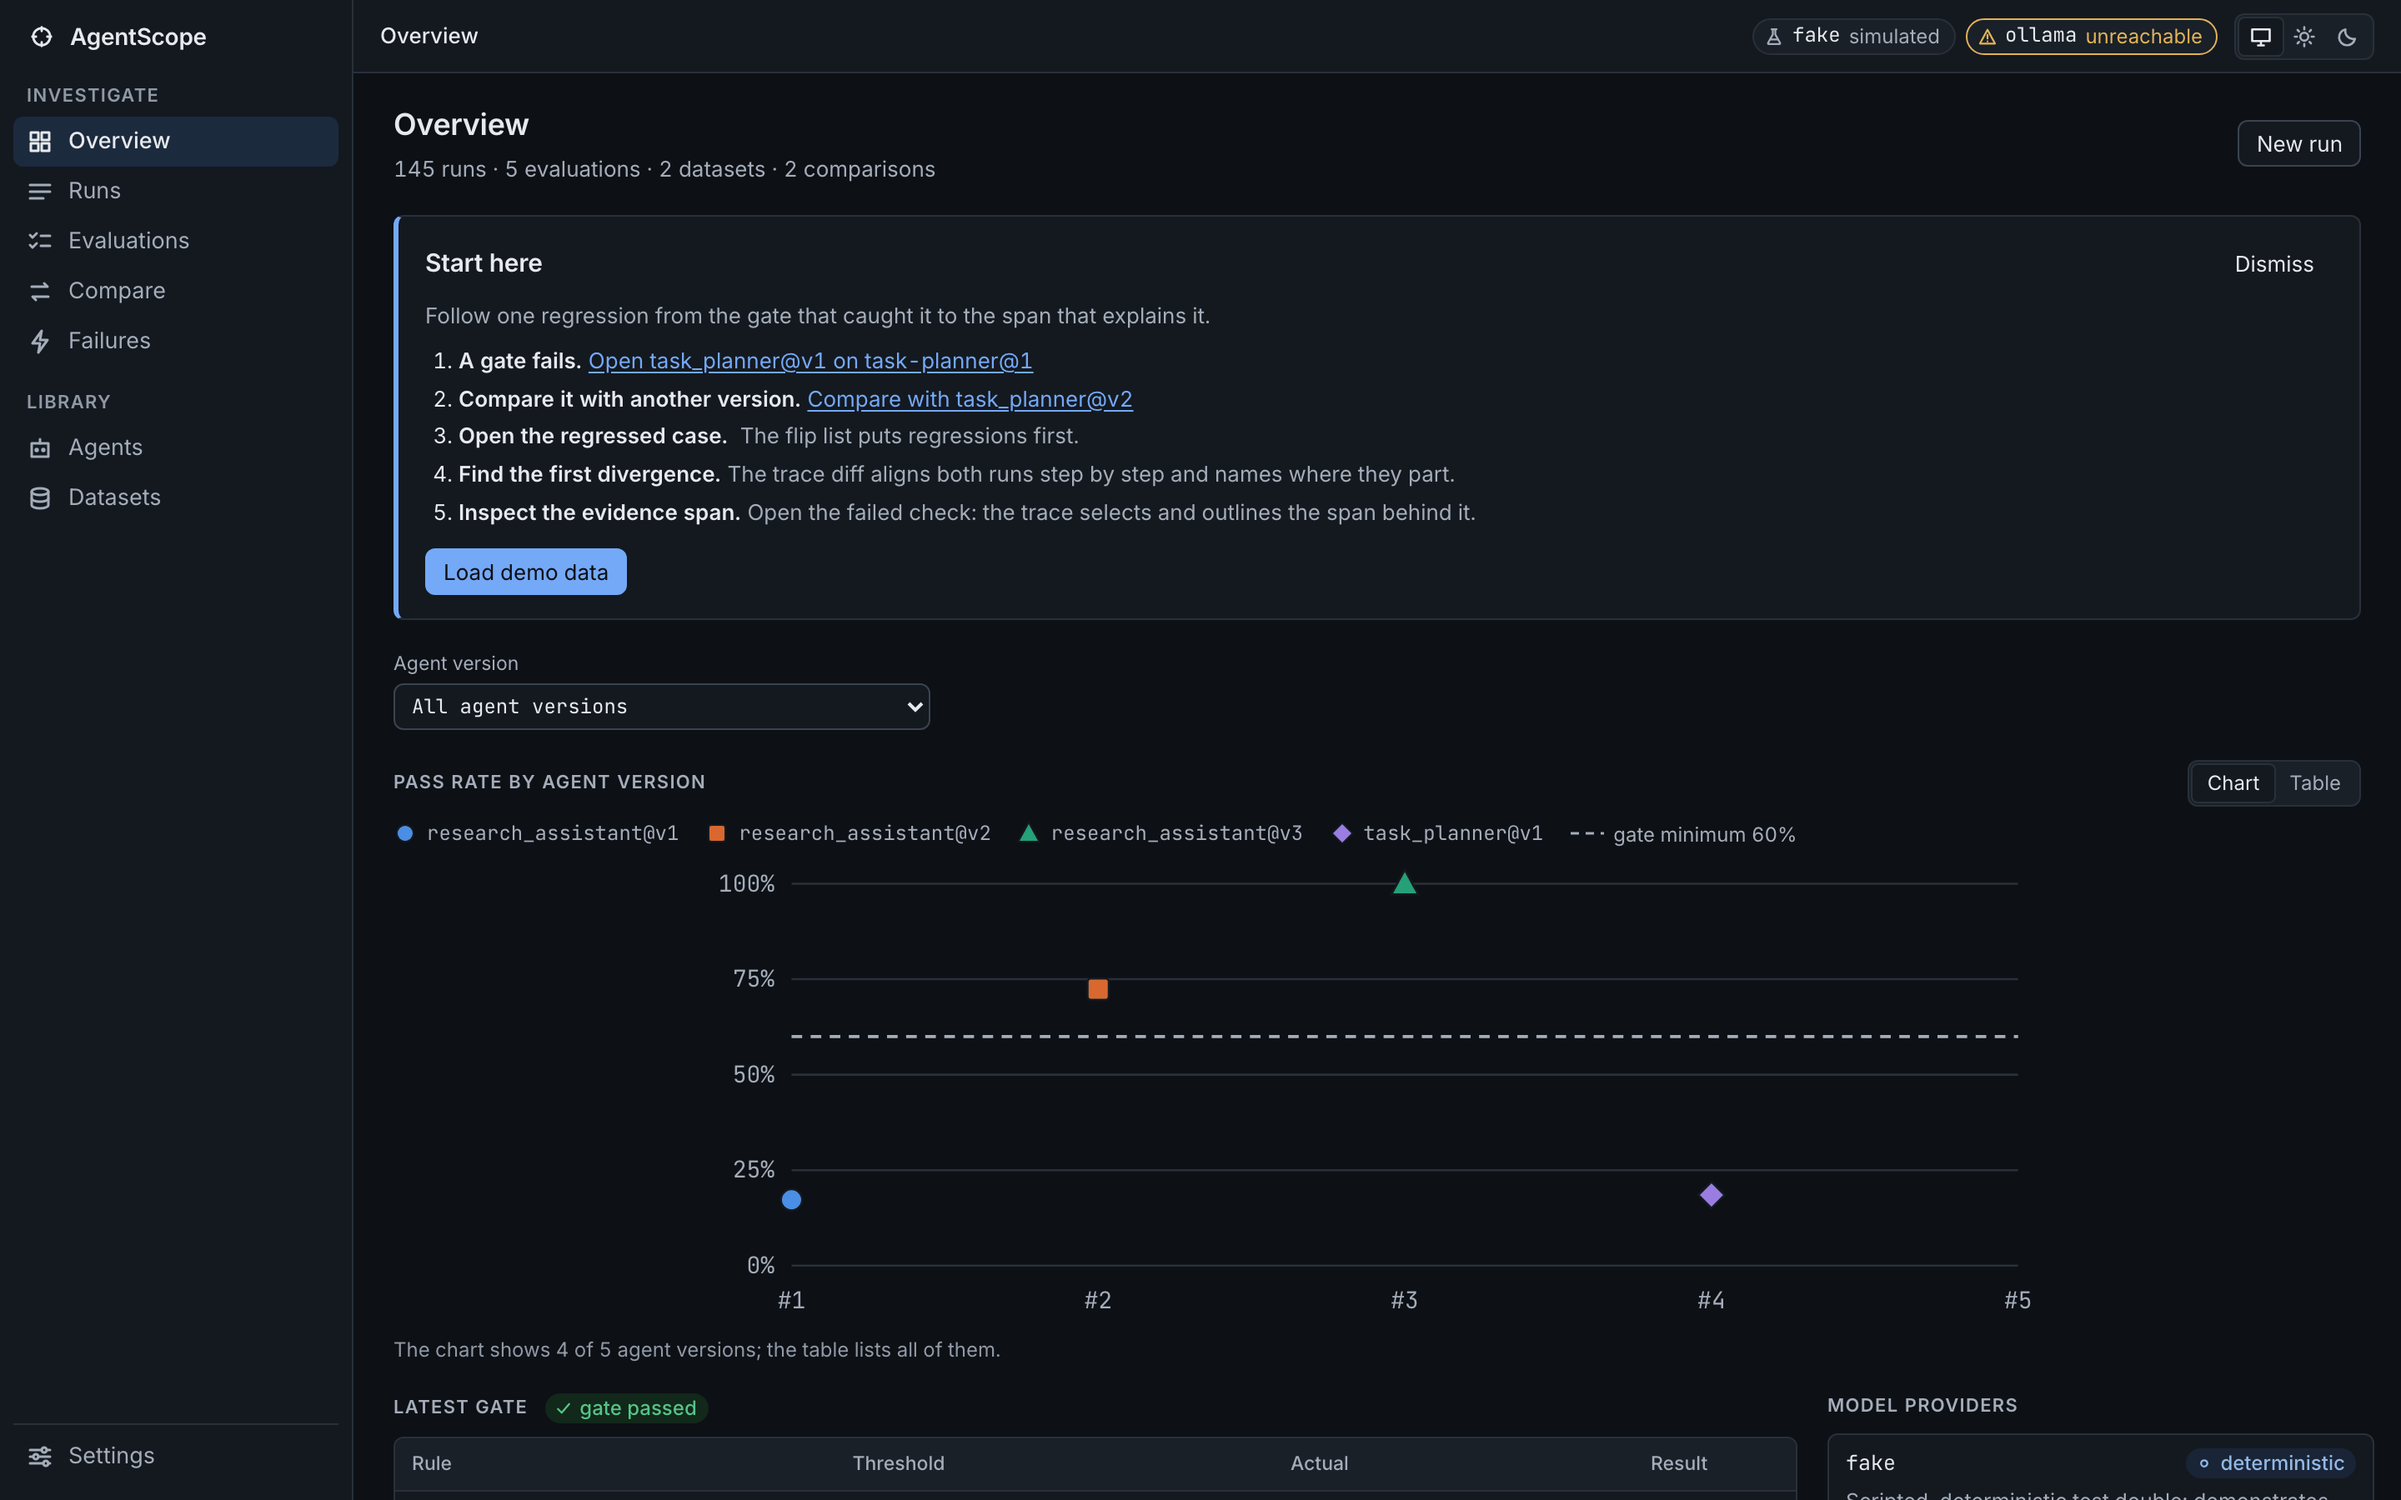
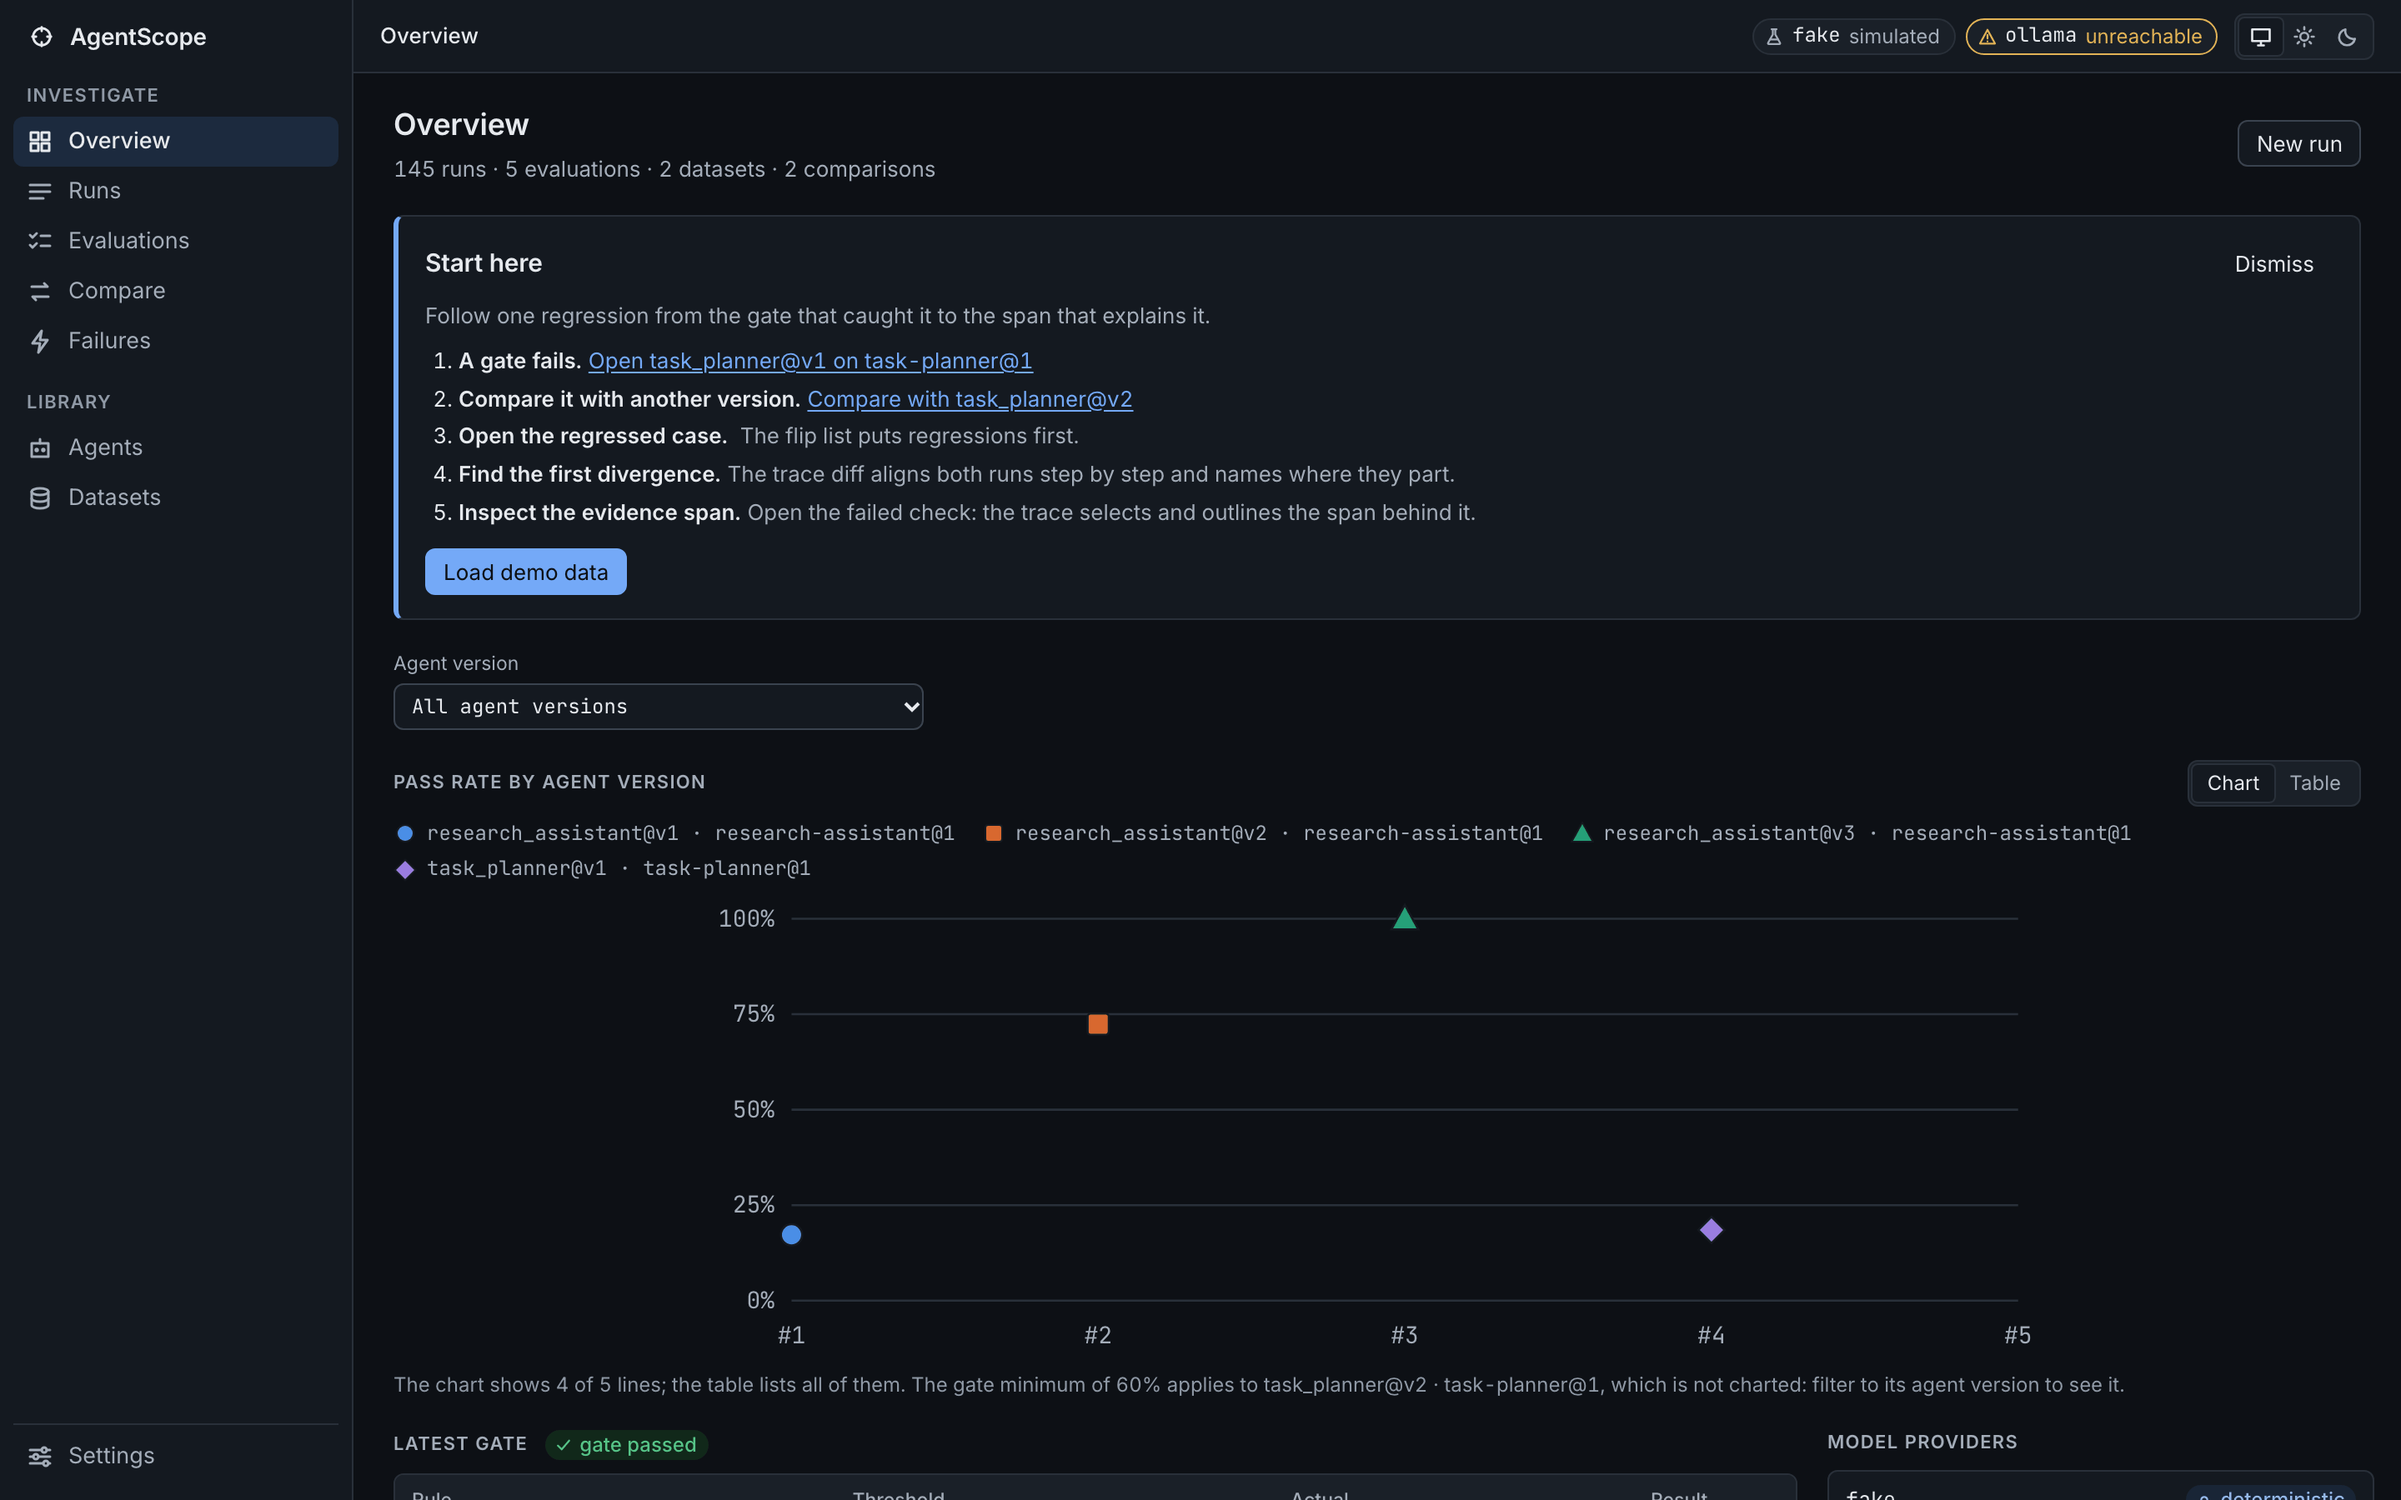
List harness-error cases in CLI compare output; refresh screenshots
- agentscope compare's text output now groups harness_error cases instead of
  dropping them (the JSON output already had them); a test pins the grouping
  to every CaseChange
- Regenerate the README screenshots from the 1.0.0 demo seed

diff --git a/tests/integration/test_cli_eval.py b/tests/integration/test_cli_eval.py
@@ -525,3 +525,12 @@ def test_a_comparison_with_one_simulated_side_says_so(capsys: pytest.CaptureFixt
     shown = capsys.readouterr().out
     assert "A: Simulated model" in shown
     assert "flips may be noise" in shown
+
+
+def test_compare_text_output_groups_every_case_change() -> None:
+    """Every change except still_passing (summarized as a count) gets its own group, so no
+    case silently disappears from the human-readable comparison."""
+    from agentscope.cli.evaluate import _CHANGE_ORDER
+    from agentscope.domain.experiments import CaseChange
+
+    assert set(_CHANGE_ORDER) | {"still_passing"} == {c.value for c in CaseChange}

diff --git a/src/agentscope/cli/evaluate.py b/src/agentscope/cli/evaluate.py
@@ -375,6 +375,7 @@ _CHANGE_ORDER = (
     "still_failing_changed",
     "still_failing_same",
     "content_changed",
+    "harness_error",
     "added",
     "removed",
 )

diff --git a/README.md b/README.md
@@ -22,13 +22,8 @@ failure modes, not a measurement of any real model.
 | **Settings** | |
 | ![Settings with storage inventory and egress list, light theme](docs/images/settings-light.png) | |
 
-The screenshots are generated from the seeded demo by `npm run screenshots`
-([CONTRIBUTING.md](CONTRIBUTING.md#regenerating-screenshots)). They were captured before the
-pre-release fixes listed in the [changelog](CHANGELOG.md#fixed-before-release), so some
-details differ from a fresh 1.0.0 seed: the Overview chart now draws one line per agent
-version and dataset with the gate minimum only on the line it applies to, the Failures
-resilience counts follow the corrected recovery rules, and the Failures table marks
-simulated agent versions. The walkthrough below was checked against a fresh seed.
+The screenshots are generated from the seeded demo of release 1.0.0 by `npm run screenshots`
+([CONTRIBUTING.md](CONTRIBUTING.md#regenerating-screenshots)). The walkthrough below was checked against a fresh seed.
 
 ## Features
 
